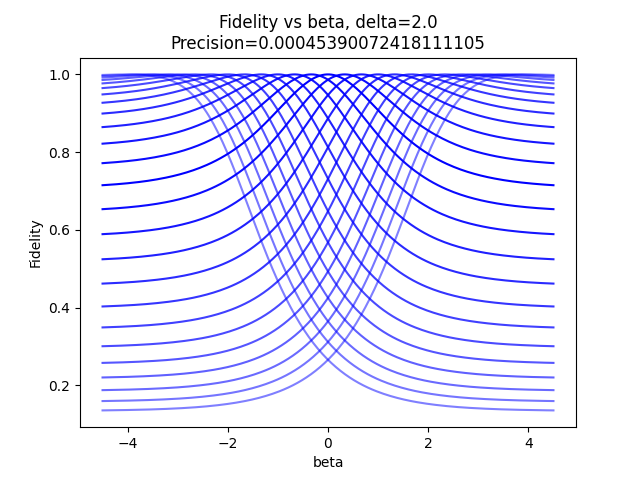
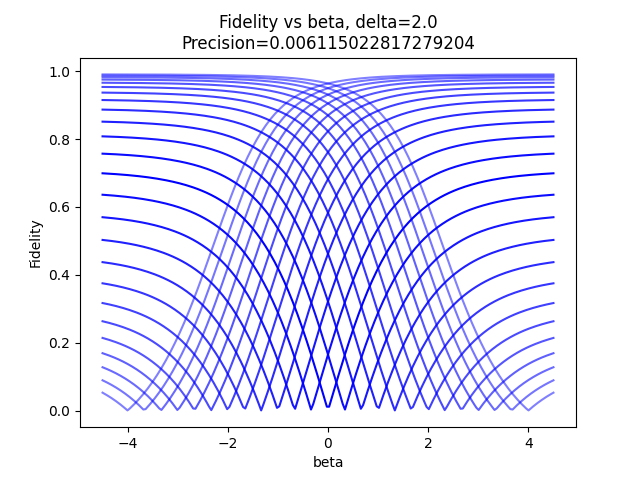
fidd susc

diff --git a/magnetic_sensor.py b/magnetic_sensor.py
@@ -5,14 +5,14 @@ import multiprocessing as mp
 from utils import TLS
 
 omega_0 = 2
-omega = 2.15
+omega = 2.05
 
 import scipy.optimize as opt
 def power_law(x, a, b, c):
     return a * (x - delta)**b + c
 
 def parallel_simulation(beta):
-    times = np.linspace(-12,12,200)
+    times = np.linspace(-20,20,300)
     system = TLS('sech', beta=beta, delta=omega_0 - omega, t_points=times)
     system.evolve()
     fidelity = system.final_fidelity
@@ -22,14 +22,14 @@ def parallel_simulation(beta):
     
 
 if __name__ == '__main__':
-    min_beta = -2
-    max_beta = 2
-    num_beta_steps = 300
+    min_beta = -4
+    max_beta = 6
+    num_beta_steps = 700
     betas = np.linspace(min_beta, max_beta, num_beta_steps)
     beta_err = np.abs(betas[1] - betas[0])
 
     # Parallelize the simulation
-    pool = mp.Pool()
+    pool = mp.Pool(20)
     fidelity_list = pool.map(parallel_simulation, betas)
     pool.close()
     pool.join()
@@ -37,33 +37,36 @@ if __name__ == '__main__':
     fidelity_array = np.array(fidelity_list)
     # calculate critical exponent by fitting a power law near the minimum fidelity (0):
     # which should occur at the detuning, delta = omega_0 - omega
-    delta = omega_0 - omega
-    # find the index of the minimum fidelity:
-    min_fid_index = np.argmin(fidelity_array)
-    right_fidelity_array = fidelity_array[min_fid_index:]
-    right_betas = betas[min_fid_index:]
-    # fit a power law:
-    right_popt, _ = opt.curve_fit(power_law, right_betas/2, right_fidelity_array)
-    print(right_popt[1])
-    # now for left side:
-    left_fidelity_array = fidelity_array[:min_fid_index]
-    left_betas = betas[:min_fid_index]
-    # fit a power law:
-    left_popt, _ = opt.curve_fit(power_law, -left_betas/2, left_fidelity_array)
-    print(left_popt[1])
+    # delta = omega_0 - omega
+    # # find the index of the minimum fidelity:
+    # min_fid_index = np.argmin(fidelity_array)
+    # right_fidelity_array = fidelity_array[min_fid_index:]
+    # right_betas = betas[min_fid_index:]
+    # # fit a power law:
+    # right_popt, _ = opt.curve_fit(power_law, right_betas/2, right_fidelity_array)
+    # print(right_popt[1])
+    # # now for left side:
+    # left_fidelity_array = fidelity_array[:min_fid_index]
+    # left_betas = betas[:min_fid_index]
+    # # fit a power law:
+    # left_popt, _ = opt.curve_fit(power_law, -left_betas/2, left_fidelity_array)
+    # print(left_popt[1])
     
-    # plt.figure()
-    # One plot with two yaxes:
+    # # plt.figure()
+    # # One plot with two yaxes:
     fig, ax1 = plt.subplots()
 
     max_beta = betas[np.argmax(fidelity_array)]
     
     ax1.plot(betas/2, fidelity_array, 'k', label=f'Fidelity, max at beta={round(max_beta,3)/(2)}+/-{round(beta_err,3)/(2)}')
-    # plot the fit:
-    ax1.plot(left_betas/2, power_law(-left_betas/2, *left_popt), 'r--', label=f'Power law fit, exponent={round(left_popt[1],3)}')
-    ax1.plot(right_betas/2, power_law(right_betas/2, *right_popt), 'r--', label=f'Power law fit, exponent={round(right_popt[1],3)}')
-    # Also plot second derivative of log fidelity:
+    # # plot the fit:
+    # ax1.plot(left_betas/2, power_law(-left_betas/2, *left_popt), 'r--', label=f'Power law fit, exponent={round(left_popt[1],3)}')
+    # ax1.plot(right_betas/2, power_law(right_betas/2, *right_popt), 'r--', label=f'Power law fit, exponent={round(right_popt[1],3)}')
+    # # Also plot second derivative of log fidelity:
     log_fid = np.log(fidelity_array)
+    fid_derivative = np.gradient(fidelity_array, 1)
+    print(max(np.diff(fid_derivative)))
+    print(f'Occured at beta={betas[np.argmax(np.diff(fid_derivative))]/2}')
     fid_susc = -np.gradient(log_fid, 2)
     max_beta = betas[np.argmax(fid_susc)]
     # new yaxis:

diff --git a/utils.py b/utils.py
@@ -10,7 +10,7 @@ omega_0 = 2*np.pi
 omega = 2.*np.pi
 
 
-def sech(t):
+def sech(t): 
     return 1/np.cosh(t)
 
 def sech_amplitude(t, alpha, tau=1):
@@ -66,6 +66,10 @@ class TLS:
         
 
     def ham(self,t,args):#Hioe rotating frame
+        if self.amplitude(t) == 0:
+            if self.detuning(t) == 0:
+                # rather than return a zero matrix, return the identity
+                return qt.qeye(2)
         return 1/2*self.amplitude(t) * \
                 (np.exp(-1j*self.detuning(t))*raising + \
                  np.exp(1j*self.detuning(t))*lowering)

diff --git a/precisions.py b/precisions.py
@@ -46,6 +46,8 @@ if __name__ == '__main__':
             log_fid = np.log(fidelity_list)
             second_deriv = np.gradient(np.gradient(log_fid))
             precision = np.max(second_deriv)
+            fid_derivative = np.gradient(fidelity_list, 1)
+            precision = (max(np.diff(fid_derivative)))
 
         # make alpha go from 0 to 1 to 0, peaking at midpoint of deltas:
         alpha = 1 - np.abs(delta) / (deltas[-1] - deltas[0])

diff --git a/dynamics.py b/dynamics.py
@@ -6,7 +6,7 @@ n_points = 1000
 t_points = np.linspace(-10, 10, n_points)
 
 beta = 1.4*np.pi
-sys = TLS('sech', beta=beta, delta=-beta/2, phi=3*np.pi, t_points=t_points)
+sys = TLS('square', beta=beta, delta=-beta/2, phi=3*np.pi, t_points=t_points)
 print(sys.alpha/np.pi)
 sys.evolve()
 sys.plot()

diff --git a/sb.py b/sb.py
@@ -1,0 +1,9 @@
+# apply sigmay to the initial state 
+import qutip as qt
+x0 = qt.basis(2, 0)
+
+def ham(t, args):
+    return 0.5*qt.sigmay()
+
+results = qt.sesolve(ham, x0, [0, 1], args={})
+print(results.states[-1])
